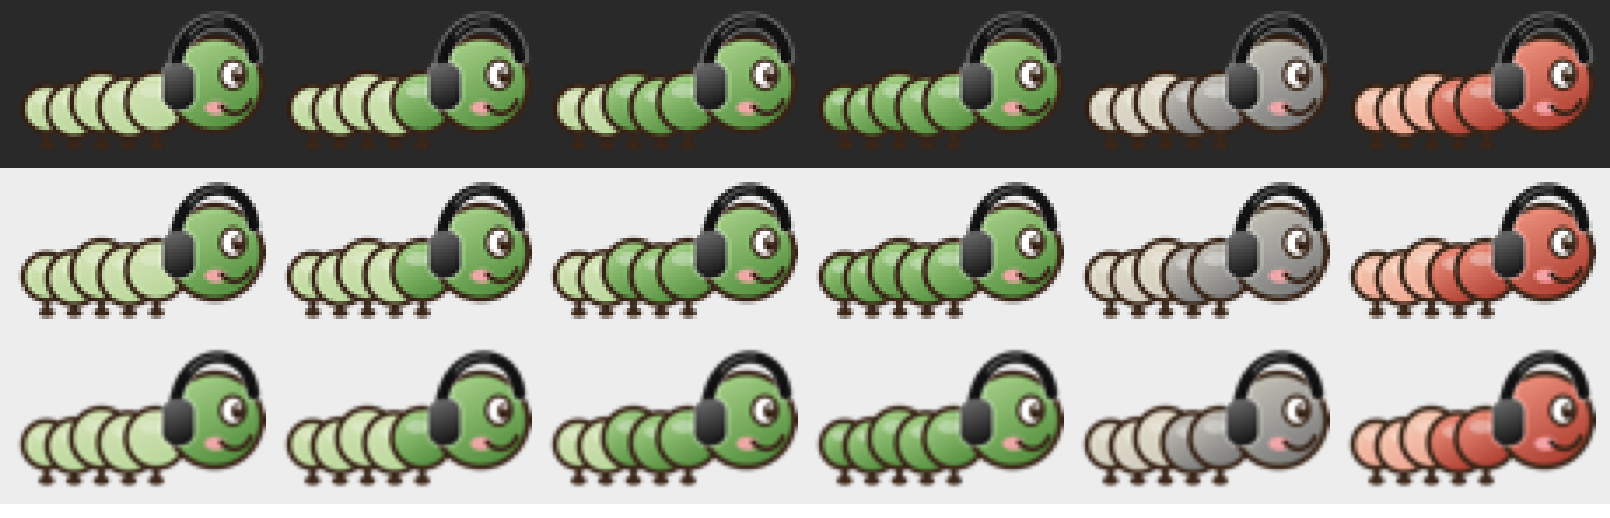
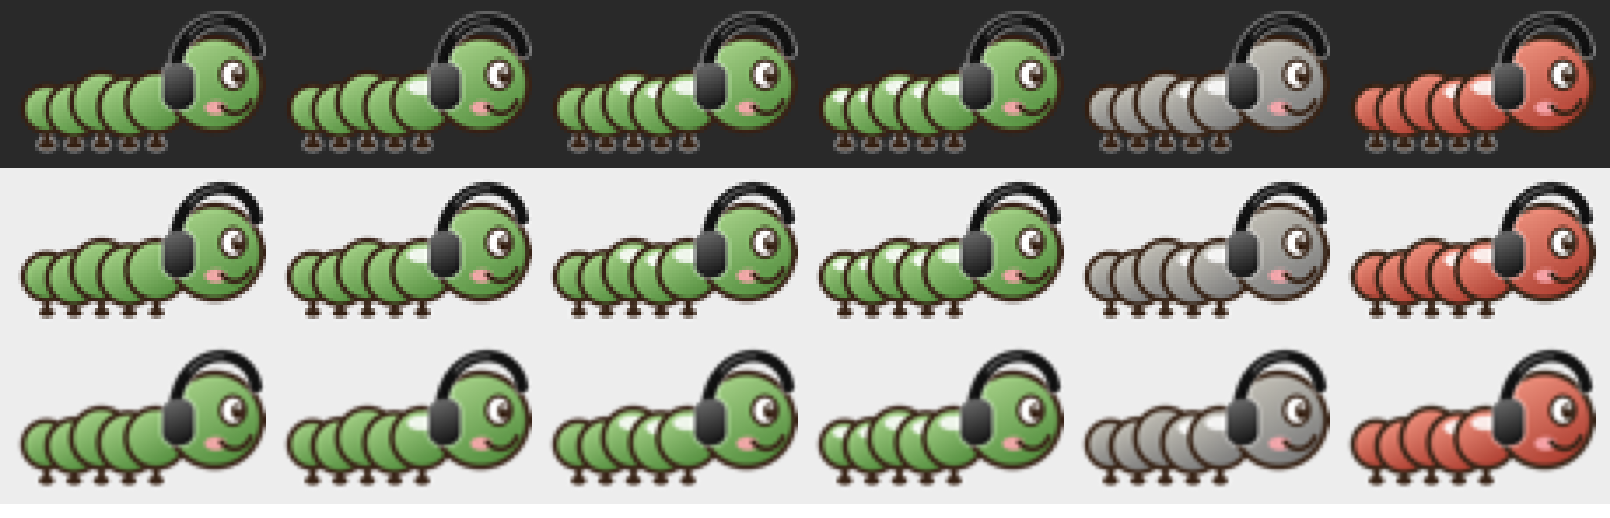
Outline the caterpillar's legs, tuck the headphone band behind the head, highlight segments per effect

diff --git a/Sources/SoundChain/CaterpillarIcon.swift b/Sources/SoundChain/CaterpillarIcon.swift
@@ -7,9 +7,9 @@
 import AppKit
 
 /// SoundChain's menu-bar character, drawn in a storybook style (ink outlines, soft
-/// shading): a caterpillar in black headphones. Its body is always five segments;
-/// the segments nearest the head light up, one per running effect, and the rest stay
-/// pale. Its colour is the app's state. Every variant shares one 36x22pt canvas so
+/// shading): a caterpillar in black headphones. Its body is always five segments, all
+/// the same colour as the head; each running effect puts a bright highlight on top of
+/// a segment, counting back from the head. Its colour is the app's state. Every variant shares one 36x22pt canvas so
 /// the menu bar never shifts.
 ///
 /// Each variant is drawn once at 8x and downsampled (high-quality interpolation) to
@@ -46,11 +46,12 @@ enum CaterpillarIcon {
 
     struct Palette {
         let light, mid, dark: NSColor          // lit segment / head shading
-        let paleLight, paleDark: NSColor       // unlit segments
         static let ink = NSColor(red: 0.22, green: 0.14, blue: 0.09, alpha: 1)
         static let cheek = NSColor(red: 0.98, green: 0.66, blue: 0.68, alpha: 0.9)
         static let phones = NSColor(white: 0.07, alpha: 1)
         static let phonesSheen = NSColor(white: 0.42, alpha: 1)
+        /// A faint light edge that keeps dark parts visible on a dark menu bar.
+        static let rim = NSColor(white: 1, alpha: 0.4)
 
         init(_ state: State) {
             let base: NSColor
@@ -63,8 +64,6 @@ enum CaterpillarIcon {
             light = base.blended(withFraction: 0.35, of: cream) ?? base
             mid = base
             dark = base.blended(withFraction: 0.30, of: .black) ?? base
-            paleLight = base.blended(withFraction: 0.72, of: cream) ?? base
-            paleDark = base.blended(withFraction: 0.50, of: cream) ?? base
         }
     }
 
@@ -122,21 +121,26 @@ enum CaterpillarIcon {
             let lift: CGFloat = i % 2 == 0 ? 0.5 : 0
             let bottom = groundY + 0.6 + lift
 
-            // leg with a little round foot
-            Palette.ink.set()
+            // leg with a little round foot, rimmed in light so it reads on a dark bar
             let leg = NSBezierPath()
             leg.move(to: NSPoint(x: cx, y: bottom + 0.8))
             leg.line(to: NSPoint(x: cx, y: groundY - 0.2))
-            leg.lineWidth = 0.75; leg.lineCapStyle = .round; leg.stroke()
-            NSBezierPath(ovalIn: NSRect(x: cx - 0.85, y: groundY - 0.75, width: 1.7, height: 1.0)).fill()
+            leg.lineCapStyle = .round
+            let foot = NSBezierPath(ovalIn: NSRect(x: cx - 0.85, y: groundY - 0.75, width: 1.7, height: 1.0))
+            Palette.rim.set()
+            leg.lineWidth = 1.45; leg.stroke()
+            foot.lineWidth = 0.7; foot.stroke()
+            Palette.ink.set()
+            leg.lineWidth = 0.75; leg.stroke()
+            foot.fill()
 
-            let isLit = i < lit
             let segment = NSBezierPath(ovalIn: NSRect(x: cx - r, y: bottom, width: r * 2, height: r * 2))
-            shaded(segment, light: isLit ? palette.light : palette.paleLight,
-                   dark: isLit ? palette.dark : palette.paleDark)
-            // a soft highlight on the upper back of each segment
-            NSColor(white: 1, alpha: isLit ? 0.35 : 0.25).set()
-            NSBezierPath(ovalIn: NSRect(x: cx - r * 0.55, y: bottom + r * 1.15, width: r * 0.8, height: r * 0.45)).fill()
+            shaded(segment, light: palette.light, dark: palette.dark)
+            // each running effect: a bright highlight on top of its segment
+            if i < lit {
+                NSColor(white: 1, alpha: 0.85).set()
+                NSBezierPath(ovalIn: NSRect(x: cx - r * 0.5, y: bottom + r * 1.25, width: r * 0.95, height: r * 0.5)).fill()
+            }
         }
 
         // Head.
@@ -163,10 +167,12 @@ enum CaterpillarIcon {
         // Glossy black headphones, with a faint light rim so they read on a dark bar.
         let band = NSBezierPath()
         band.move(to: NSPoint(x: 17.4, y: 10.4))
-        band.curve(to: NSPoint(x: 25.9, y: 12.4), controlPoint1: NSPoint(x: 17.6, y: 17.6), controlPoint2: NSPoint(x: 25.2, y: 18.2))
+        // The far end stops at the rim of the head, as if the band carries on behind it
+        // to an earpad on the other side.
+        band.curve(to: NSPoint(x: 26.2, y: 13.1), controlPoint1: NSPoint(x: 17.6, y: 17.6), controlPoint2: NSPoint(x: 25.4, y: 18.2))
         band.lineCapStyle = .round
         let cup = NSBezierPath(roundedRect: NSRect(x: 16.1, y: 6.8, width: 3.4, height: 5.0), xRadius: 1.4, yRadius: 1.4)
-        NSColor(white: 1, alpha: 0.35).set()
+        Palette.rim.set()
         band.lineWidth = 1.9; band.stroke()
         cup.lineWidth = 0.6; cup.stroke()
         Palette.phones.set()
